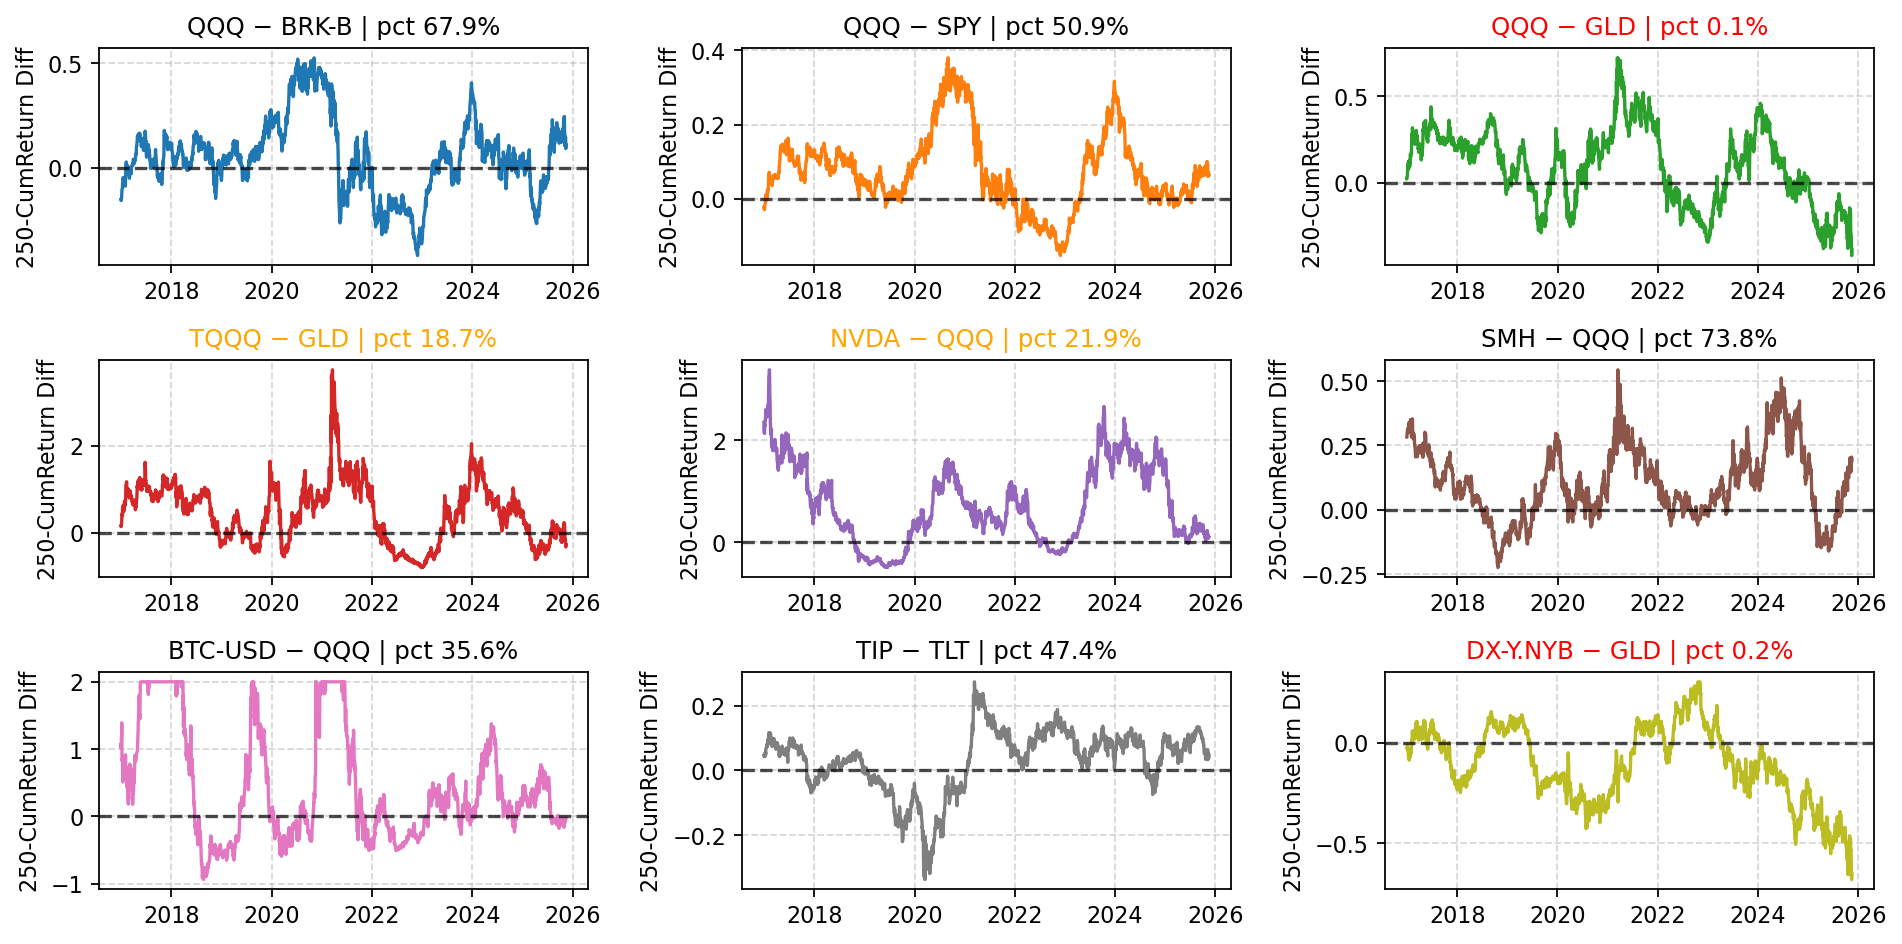
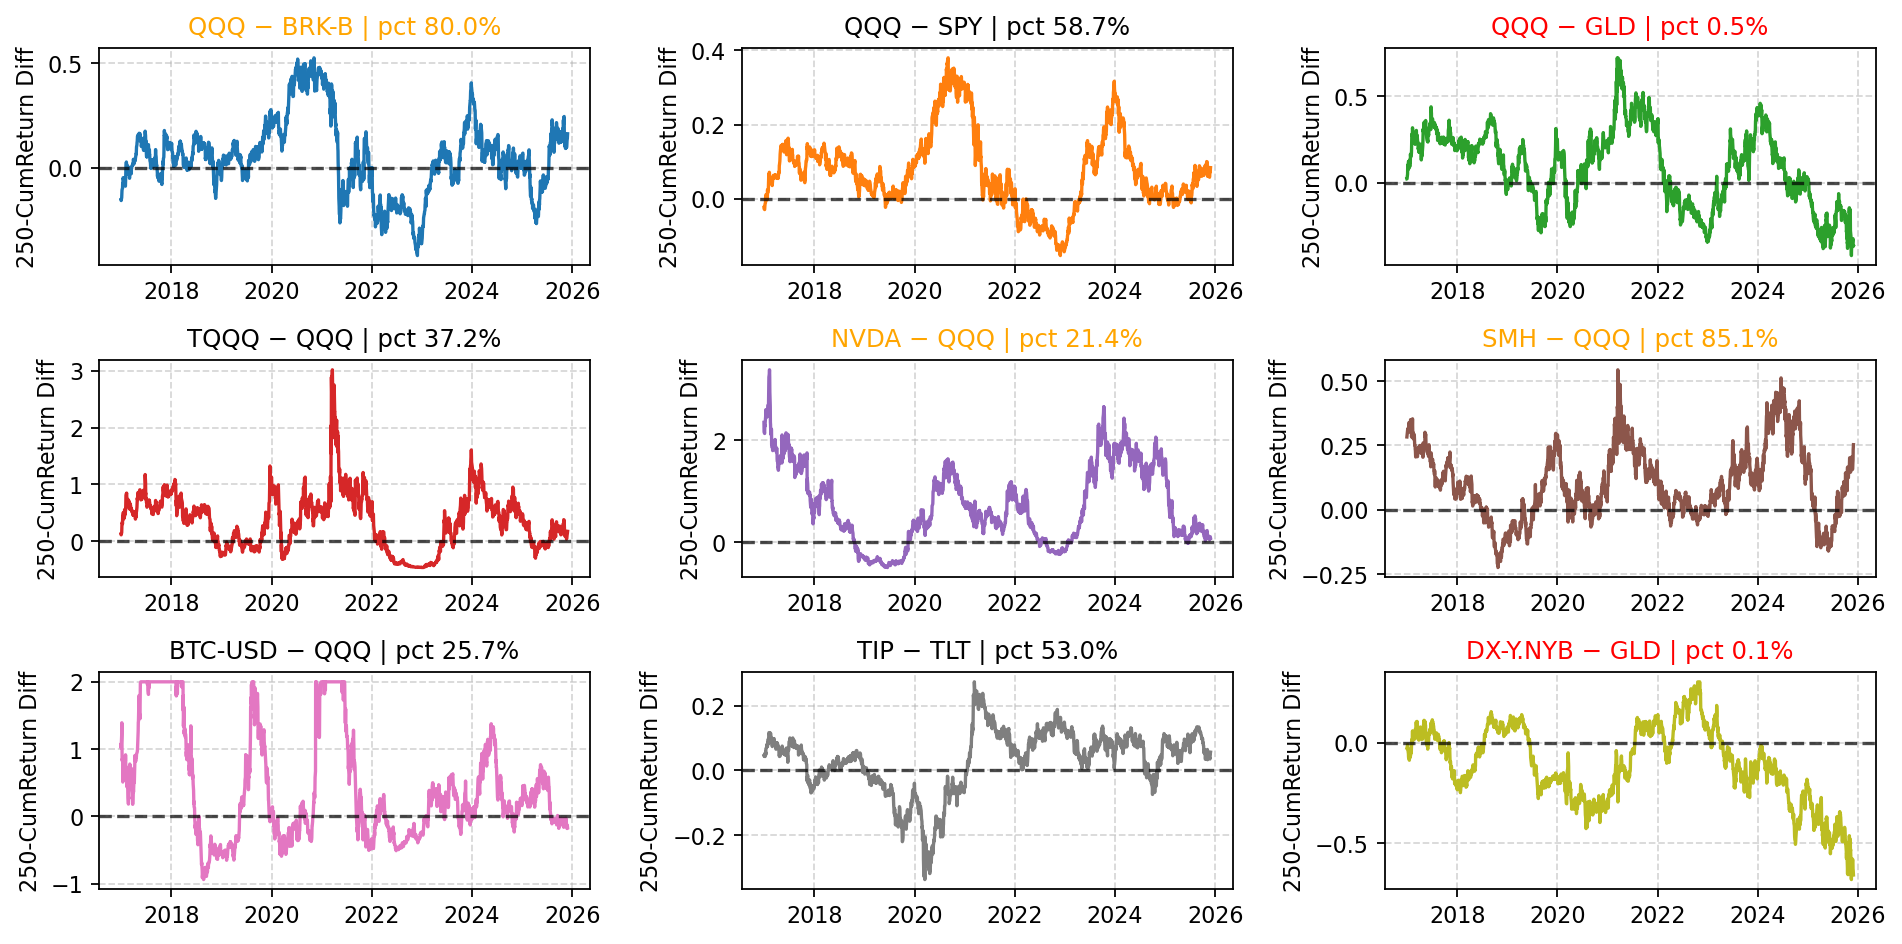
.

diff --git a/docs/index.html b/docs/index.html
@@ -12,7 +12,7 @@
 </head>
 <body>
   <h1>Rolling Pair Diffs (250-day)</h1>
-  <div class="meta">Last updated: 2025-11-16 16:33 UTC</div>
+  <div class="meta">Last updated: 2025-11-28 23:08 UTC</div>
   <p><img src="rolling_pairs.png" alt="rolling pairs figure"></p>
   <div class="note">
     Data via <code>yfinance</code>. Figure regenerates daily via GitHub Actions.

diff --git a/auto_macro_pair_monitor.py b/auto_macro_pair_monitor.py
@@ -23,7 +23,7 @@ PAIRS = [
     ('QQQ', 'BRK-B'),     # growth vs quality value
     ('QQQ', 'SPY'),       # growth vs value
     ('QQQ', 'GLD'),       # risk-on vs safe-haven
-    ('TQQQ', 'GLD'),      # risk-on vs safe-haven (leveraged growth sentiment)
+    ('TQQQ', 'QQQ'),      # risk-on vs safe-haven (leveraged growth sentiment)
     ('NVDA', 'QQQ'),      # AI & innovation vs broad market
     ('SMH', 'QQQ'),       # semiconductors vs tech index
     #('USO', 'TLT'),       # real-economy vs bonds
